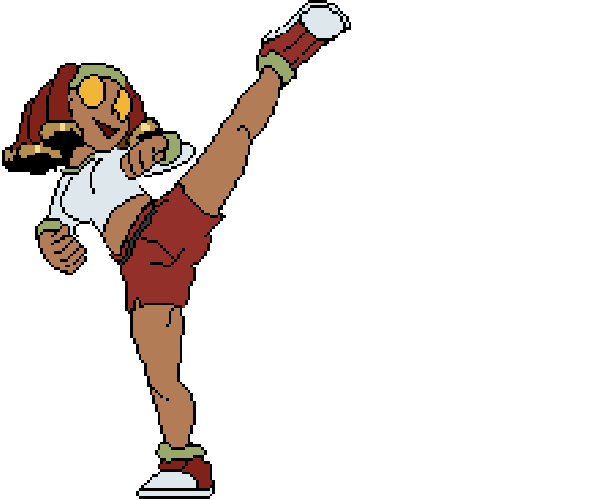
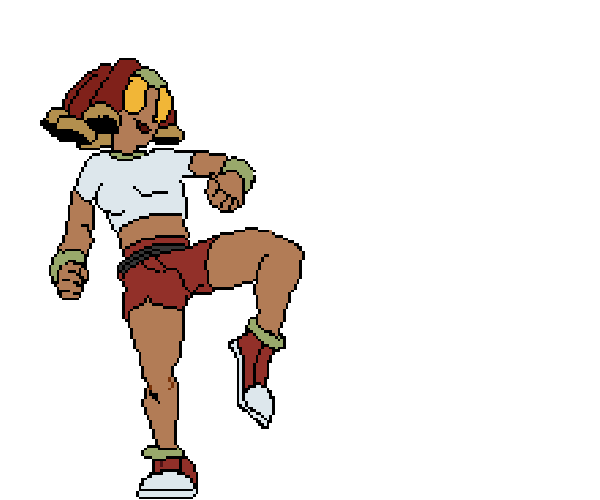
Player Animation Updated

Changed region(s): [[0.0, 0.0, 0.6, 0.87], [0.21, 0.69, 0.36, 1.0], [0.3, 0.66, 0.33, 0.69]]

diff --git a/sketch.js b/sketch.js
@@ -1,5 +1,6 @@
 gameState ="menu";
 playerState = "idle";
+lastState = "low";
 
 if (navigator.requestMIDIAccess){
   navigator.requestMIDIAccess().then(midiAccessAllowed,midiAccessDenied)
@@ -62,25 +63,24 @@ function play() {
 
 function drawPlayer(state="idle", x=0, y=0, size=500) {
   //draws player from bottom right foot
-  switch (state) {
-    case "idle":
-      //range = [0,1,2]
-      image(images[int(frameCount/15)%3], x-size*0.6, y-size*0.98, size*1.2,size);
-      //console.log(int(frameCount/15)%3);
-      break;
-    case "low":
-      //range = [3,4]
-      image(images[int(frameCount/15)%2+3], x-size*0.6, y-size*0.98, size*1.2,size);
-      //console.log(int(frameCount/15)%2);
-      break;
-    case "medium":
-      //range = [5,6,7]
-      image(images[int(frameCount/15)%3+5], x-size*0.6, y-size*0.98, size*1.2,size);
-      break;
-    case "high":
-      //range = [8,9,10]
-      image(images[int(frameCount/15)%3+8], x-size*0.6, y-size*0.98, size*1.2,size);
-      break;
+  var animations = {
+    "idle":[0,1,2],
+    "low":[3,4,10],
+    "medium":[5,6,10],
+    "high":[7,8,10]
+  }
+  if(state!=lastState){
+    nextSprite=0;
+    lastState=state;
+  }
+  if(frameCount%10==0){
+  image(images[animations[state][nextSprite]], x-size*0.6, y-size*0.98, size*1.2,size);
+  nextSprite++;
+  if(nextSprite/2 >1){
+    nextSprite=0;
+  }
+  }else{
+    image(images[animations[state][nextSprite]], x-size*0.6, y-size*0.98, size*1.2,size);
   }
 }
 
@@ -139,7 +139,7 @@ function handleInput(input){
             break;
         case 51:
             console.log("RIDE");
-            playerState="idle";
+            playerState="high";
             break;
         case 47:
           console.log("CLOSED HI-HAT");
